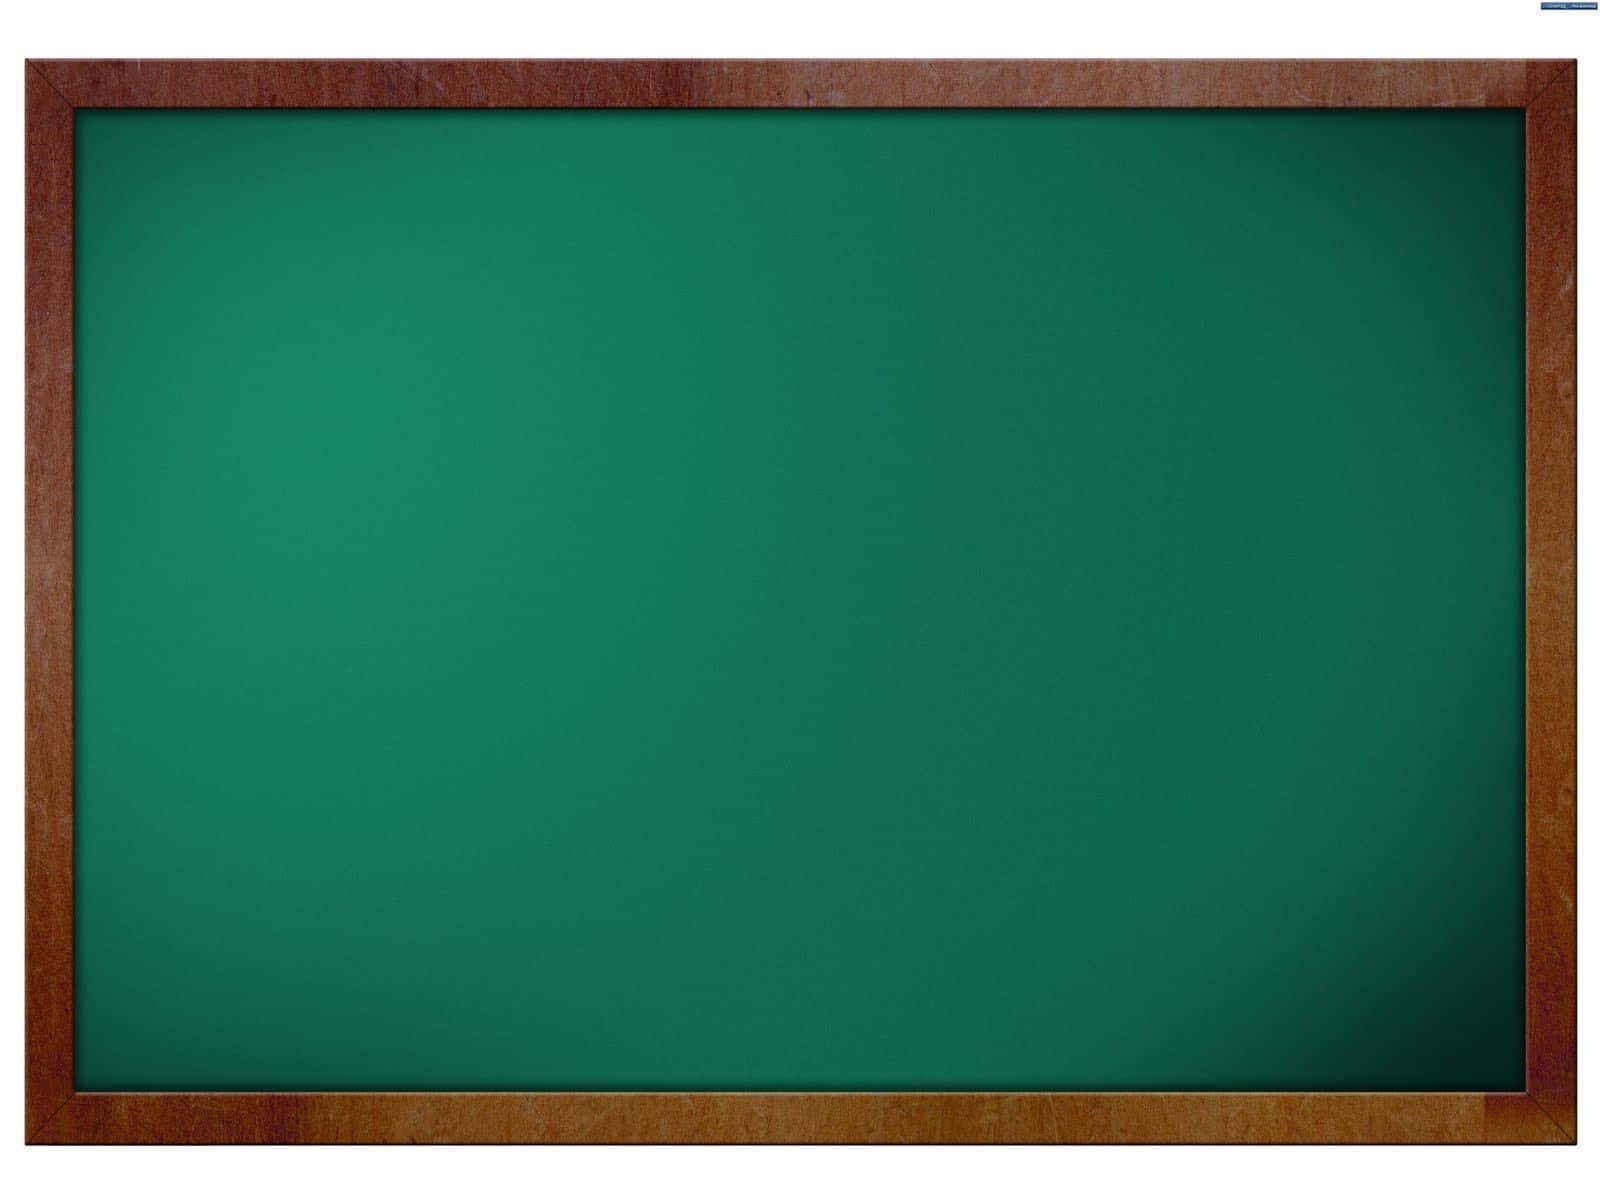
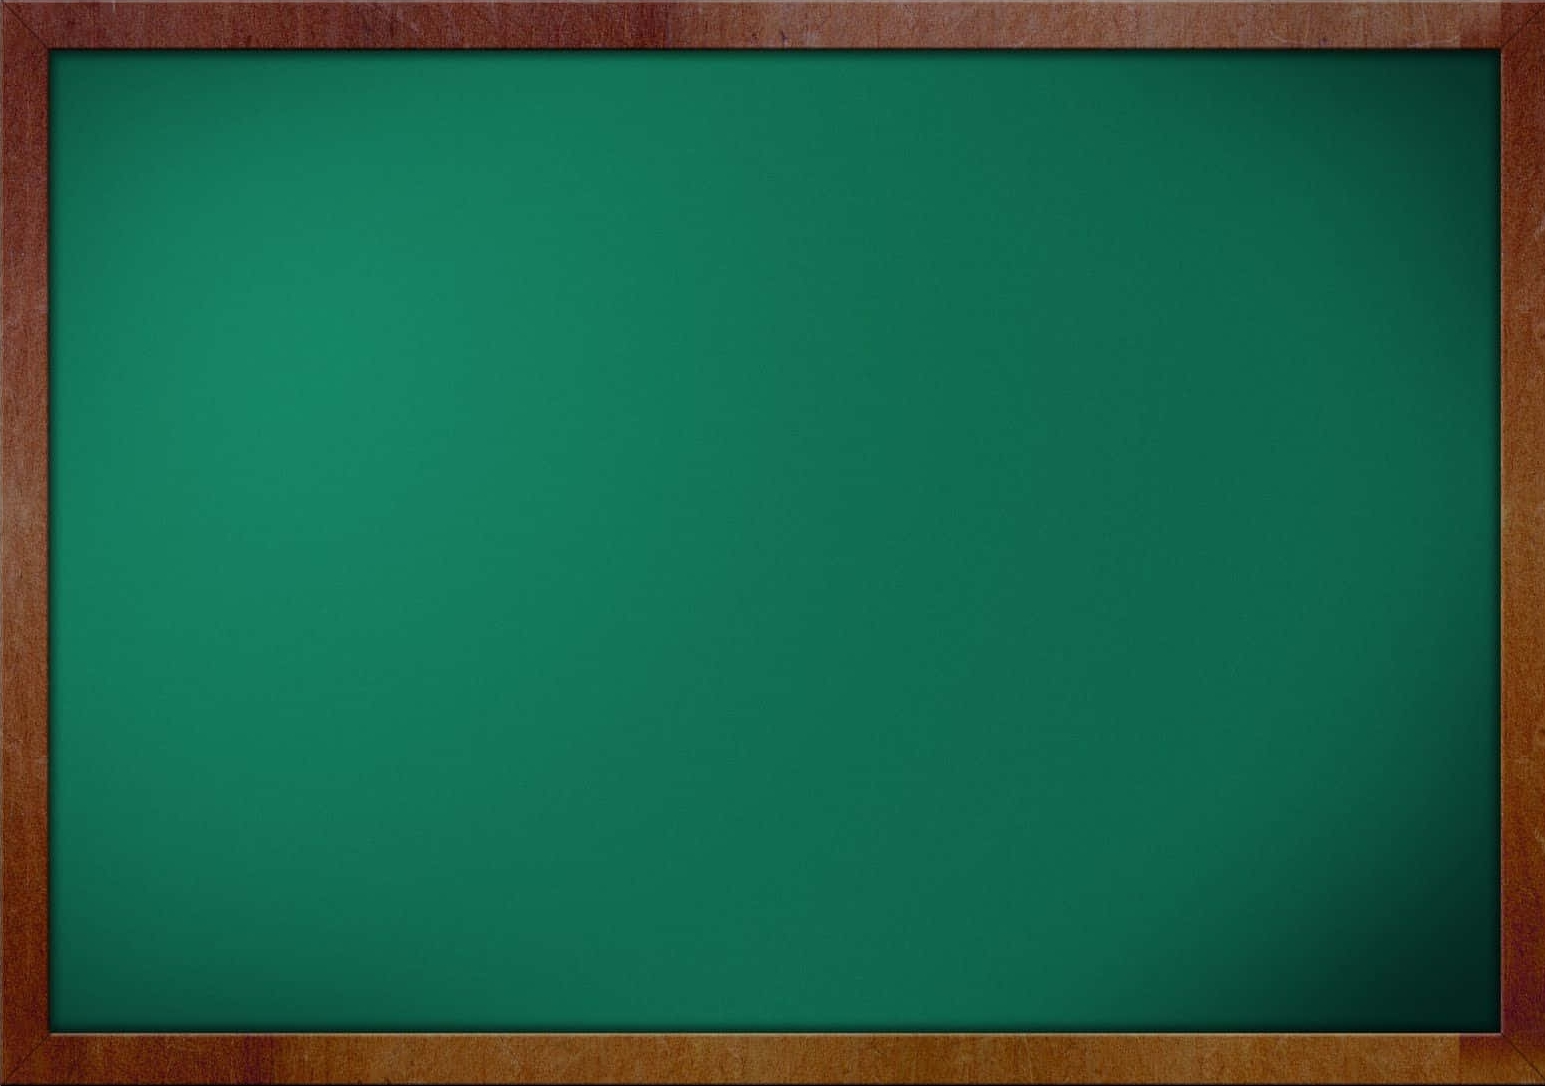
arreglo fondo

Changed region(s): [[0.0, 0.0, 1.0, 1.0]]

diff --git a/src/css/styles.css b/src/css/styles.css
@@ -1,27 +1,32 @@
 body {
   font-family: "Permanent Marker", cursive;
-  background: url("../img/fondo.jpg") no-repeat center center fixed;
-  background-size: cover;
+  background: url("../img/fondo.jpg") no-repeat;
+  background-size: 100vw 100vh;
   color: whitesmoke;
   margin: auto;
-  line-height: 1.5;
   width: 100%;
+}
+
+.container{
+  margin-top: 65px;
 }
 
 .main-container {
   display: flex;
-  justify-content: space-evenly;
+  justify-content: center;
   align-items: baseline;
 }
 
 .title {
   text-align: center;
+  display: flex;
+  justify-content: space-around;
 }
 
 .tablero td {
   font-size: 40px;
   padding: 10px;
-  margin: 10px;
+  margin: 8px;
   text-align: center;
   text-transform: uppercase;
 }
@@ -32,13 +37,13 @@ body {
   justify-content: space-between;
   align-items: center;
   text-align: center;
-  margin-bottom: 20px;
-  font-size: 25px;
+  margin-bottom: 10px;
+  font-size: 15px;
 }
 
 .ahorcado {
-  max-width: 250px;
-  min-height: 250px;
+  max-width: 240px;
+  min-height: 240px;
 }
 
 .status-container {
@@ -75,7 +80,7 @@ input {
   border: 2px solid whitesmoke;
   border-radius: 10px;
   padding: 20px;
-  margin: 20px;
+  margin: 10px;
   box-shadow: 0px 0px 20px rgba(0, 0, 0, 0.2);
   text-transform: uppercase;
   color: whitesmoke;

diff --git a/src/index.html b/src/index.html
@@ -13,9 +13,12 @@
     />
   </head>
   <body>
-    <div>
+    <div class="container">
       <div class="title">
         <h1>Juego del Ahorcado</h1>
+        <div class="intentos-container">
+          <h2>Intentos Restantes: <span id="intentos">6</span></h2>
+        </div>
       </div>
 
       <div class="main-container">
@@ -30,9 +33,7 @@
           <div class="tablero" id="tablero"></div>
         </div>
       </div>
-      <div class="intentos-container">
-        <h2>Intentos Restantes: <span id="intentos">6</span></h2>
-      </div>
+
       <div class="input-container">
         <form>
           <label for="letra">Ingresá una letra</label>
